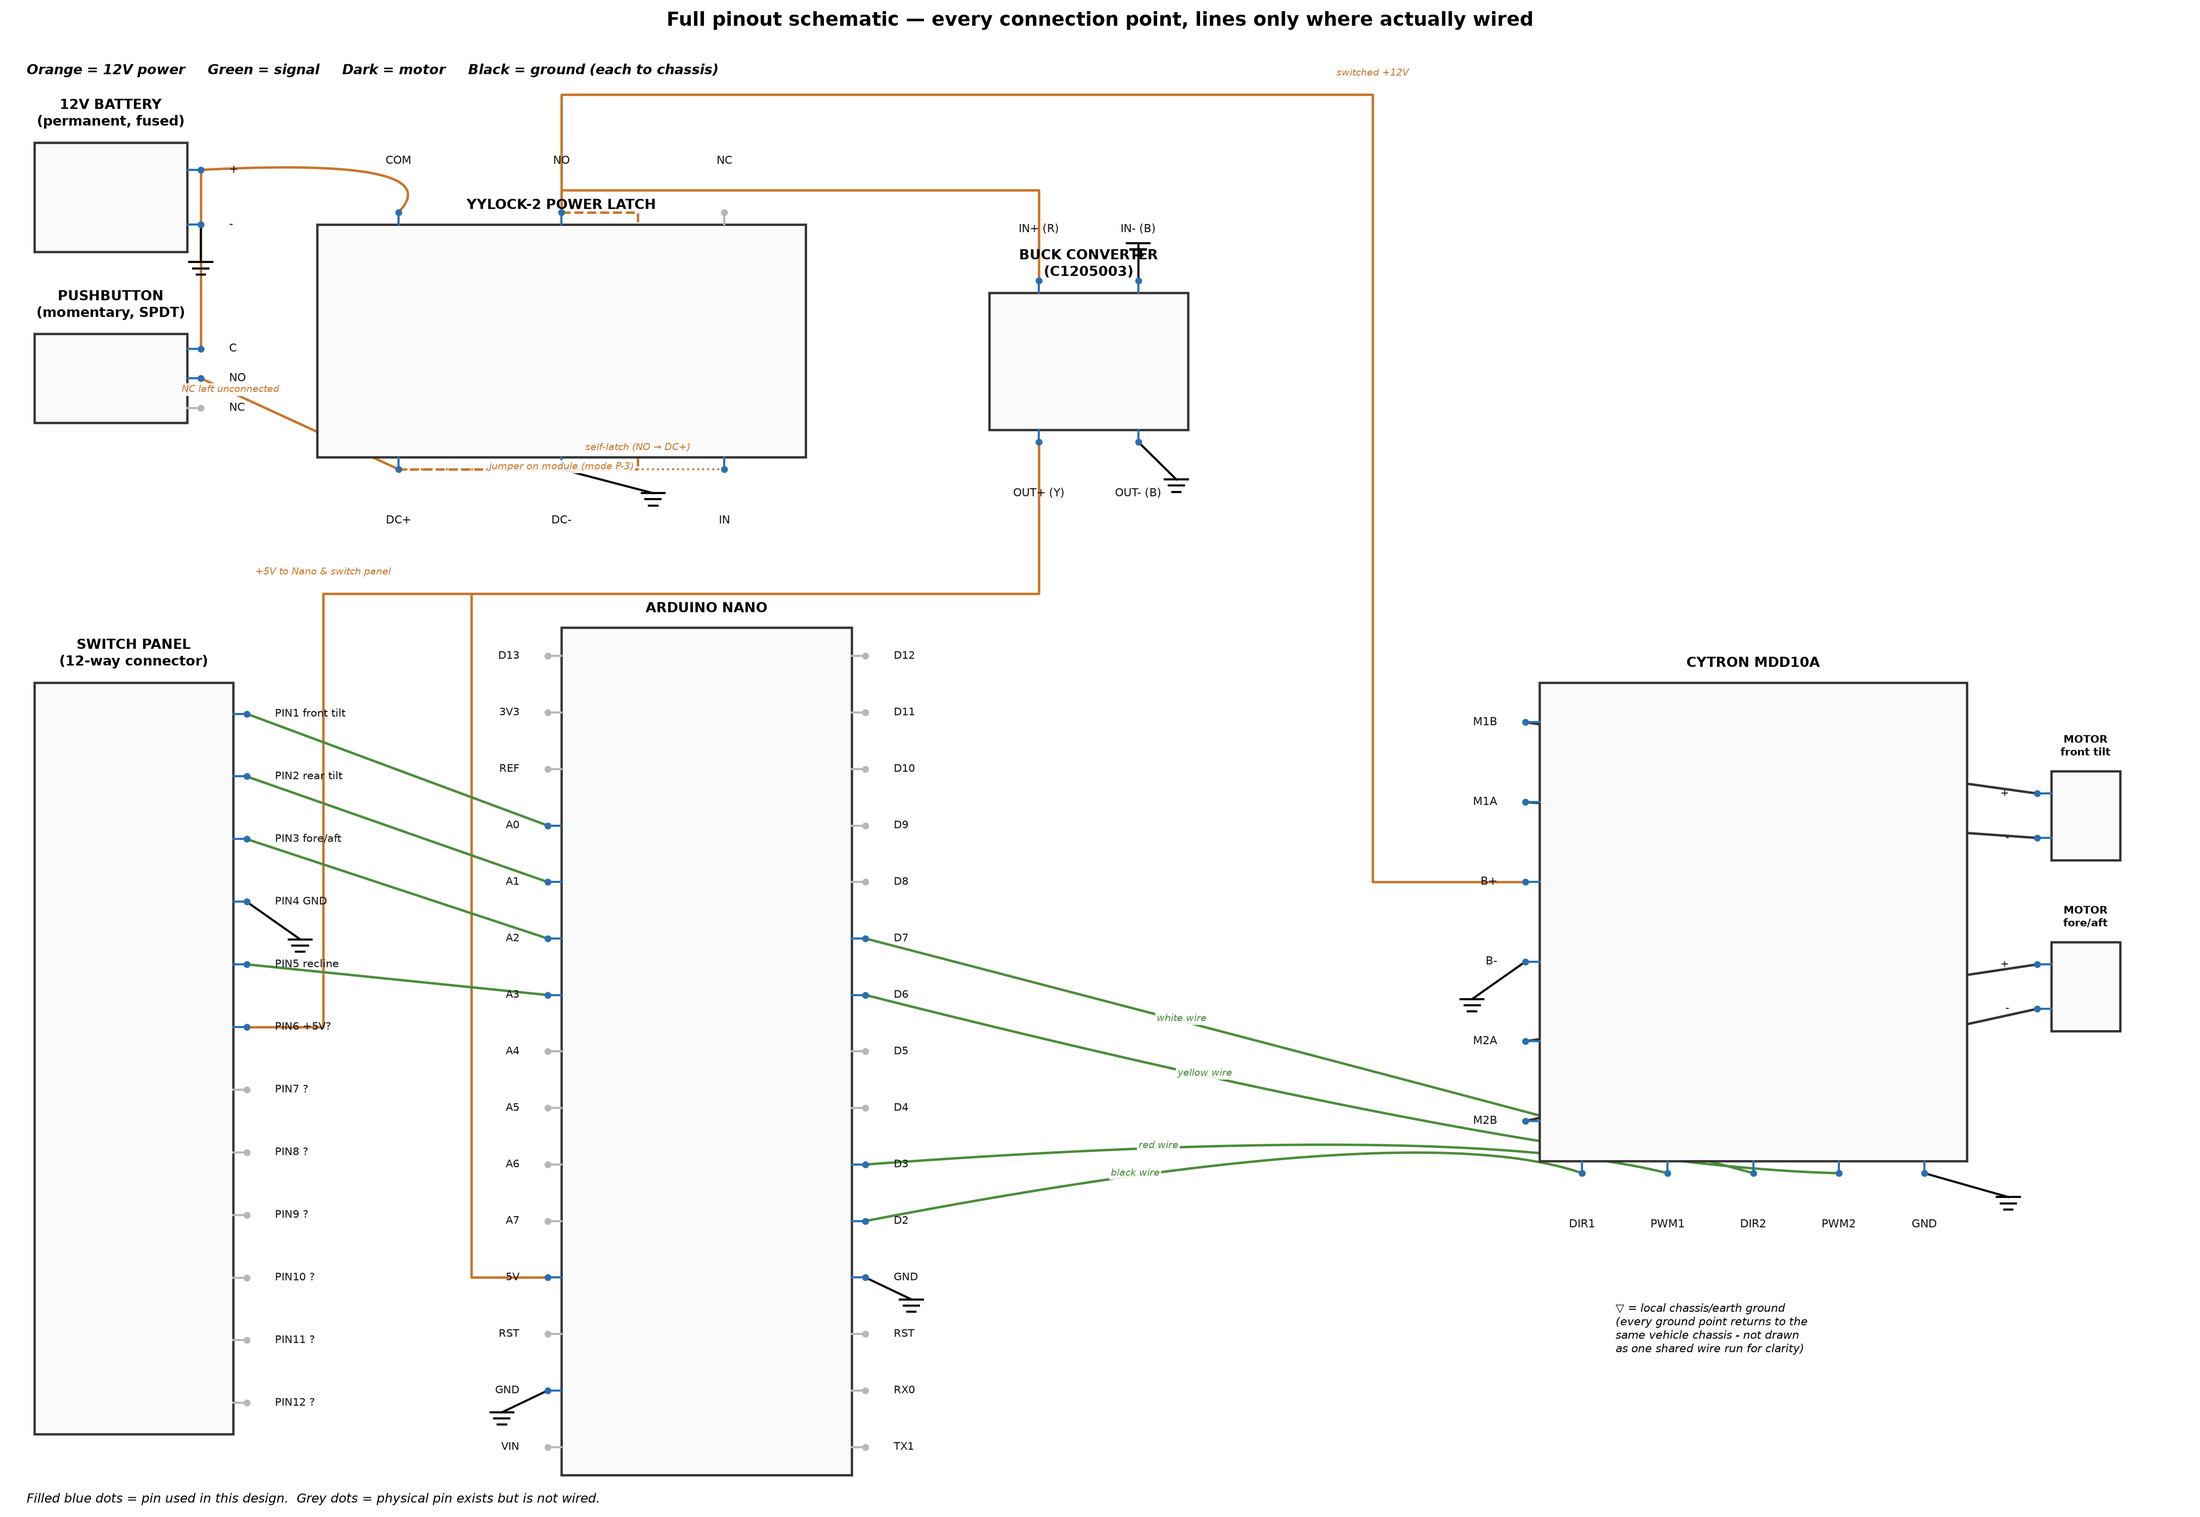
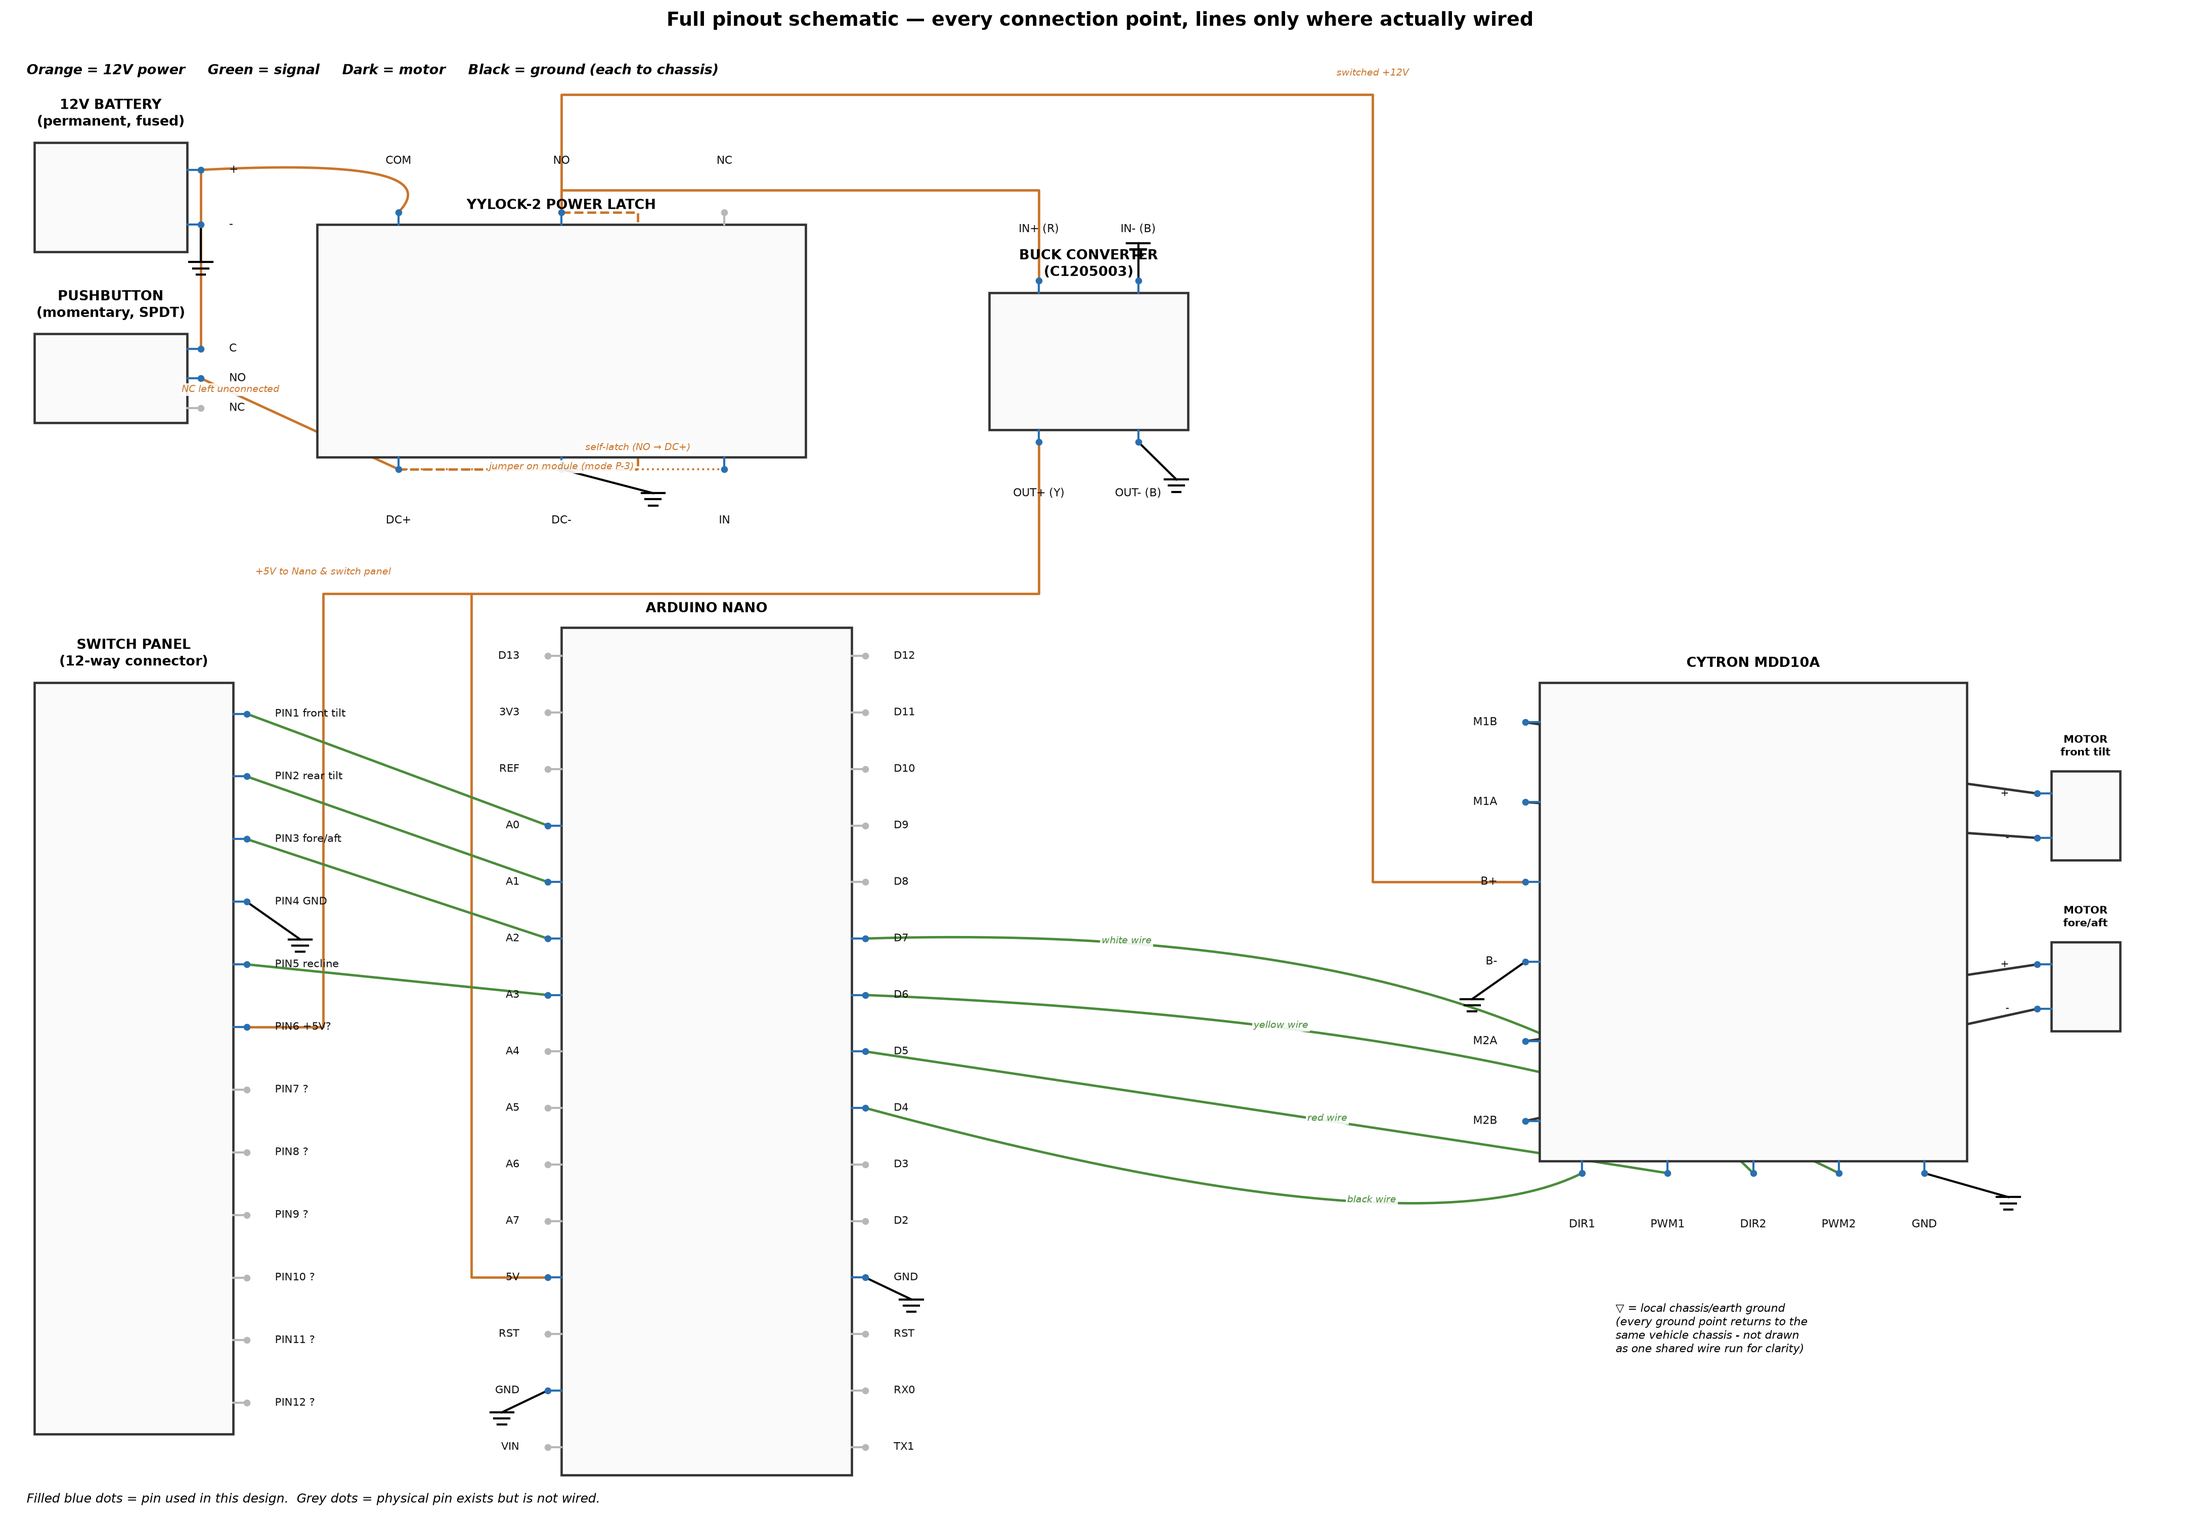
Correct front_tilt/rear_tilt pin assignment to match physical wiring
Physical confirmation from the KF2510 cable: front_tilt's DIR1/PWM1
land on D4/D5, not the D2/D3 firmware previously assumed. Since D4/D5
were already reserved for rear_tilt (the second, not-yet-built Cytron
board), swaps the two axes' pin assignments instead of just relabeling
- front_tilt now uses D4/D5 (matching physical reality), rear_tilt
moves to the now-free D2/D3. Same four pins in total use, just
correctly assigned to what's actually wired today.

Updates seat_control_main.ino, the full pinout schematic (D2/D3 now
shown unused/grey, D4/D5 used/blue, with the signal curves re-fanned
to avoid crossing now that all four Cytron control wires originate
from adjacent pins), and every README reference to the old assignment.

Changed region(s): [[0.4327, 0.6816, 0.7109, 0.7746], [0.4018, 0.6506, 0.5564, 0.7126]]

diff --git a/README.md b/README.md
@@ -95,13 +95,13 @@ Control header: `DIR1 / PWM1 / DIR2 / PWM2 / GND` — a standard 2.54mm 5-positi
 by the KF2510 pigtail in the [hardware inventory](#hardware-inventory) above. This board only
 drives two motors — see [Next Steps](#next-steps) for the implication on a 4-axis seat.*
 
-**Open item:** the KF2510 cable's connectorised end plugs straight into the MDD10A header, but the
-5 bare leads on the other end still need to be identified by continuity back to connector position
-(1–5) and matched against `DIR1/PWM1/DIR2/PWM2/GND` — then landed on the correct Nano pins via the
+**Resolved:** the KF2510 cable's 5 bare leads have been traced and landed on the Nano via the
 HW-152 terminal adapter, matching the assignment in
-[`seat_control_main.ino`](firmware/seat_control_main/seat_control_main.ino) (front_tilt: D2=DIR1,
-D3=PWM1; fore_aft: D7=DIR2, D6=PWM2). Don't assume a fixed wire-colour order — KF2510 is a generic
-2.54mm standard, not something Cytron-specific.
+[`seat_control_main.ino`](firmware/seat_control_main/seat_control_main.ino) — front_tilt: `D4`=DIR1
+(black), `D5`=PWM1 (red); fore_aft: `D7`=DIR2 (white), `D6`=PWM2 (yellow); GND=orange. Confirmed
+from both ends, not assumed from a fixed wire-colour order — this specific cable turned out to be
+plugged in reversed relative to the Cytron's own `DIR1/PWM1/DIR2/PWM2/GND` silkscreen order, which
+is why cross-checking both ends mattered.
 
 ### Controller
 
@@ -226,7 +226,7 @@ flowchart LR
         A3["A3"]
         GND1["GND"]
         FIVEV["5V"]
-        CTRL1["D2/D3 — DIR1/PWM1 (front_tilt)"]
+        CTRL1["D4/D5 — DIR1/PWM1 (front_tilt)"]
         CTRL2["D7/D6 — DIR2/PWM2 (fore_aft)"]
     end
 
@@ -262,7 +262,7 @@ flowchart LR
     BSUP --> M1
     BSUP --> M2
 
-    DRV2["Cytron MDD10A #2 (needed for remaining 2 axes:<br/>rear tilt on D4/D5, recline on D8/D9)<br/>— not yet built"]
+    DRV2["Cytron MDD10A #2 (needed for remaining 2 axes:<br/>rear tilt on D2/D3, recline on D8/D9)<br/>— not yet built"]
     CTRL1 -.-> DRV2
 ```
 
@@ -383,9 +383,10 @@ Not started. Before any of this touches a vehicle:
   genuinely unused or carry signals not yet identified.
 - Trace the pigtail's 12 wires back to their cavities and record the mapping in this README —
   needed before wiring the pigtail to the Nano.
-- ~~KF2510 cable wire-to-pin mapping~~ — done, confirmed on both ends: `GND`→orange, `D2`/`DIR1`→
-  black, `D3`/`PWM1`→red, `D6`/`PWM2`→yellow, `D7`/`DIR2`→white (see [Proposed system
-  wiring](#proposed-system-wiring)).
+- ~~KF2510 cable wire-to-pin mapping~~ — done, confirmed on both ends: `GND`→orange, `D4`/`DIR1`→
+  black, `D5`/`PWM1`→red, `D6`/`PWM2`→yellow, `D7`/`DIR2`→white (see [Proposed system
+  wiring](#proposed-system-wiring)). Note this moved front_tilt off `D2`/`D3` — those are now
+  reserved for rear_tilt on the second Cytron board instead, to avoid a pin clash.
 - Update the placeholder thresholds in `seat_control_main` once real PIN 2/3/5 values are in.
 - Source a second Cytron MDD10A (or equivalent dual H-bridge) — one board only covers 2 of the 4
   seat motors.
